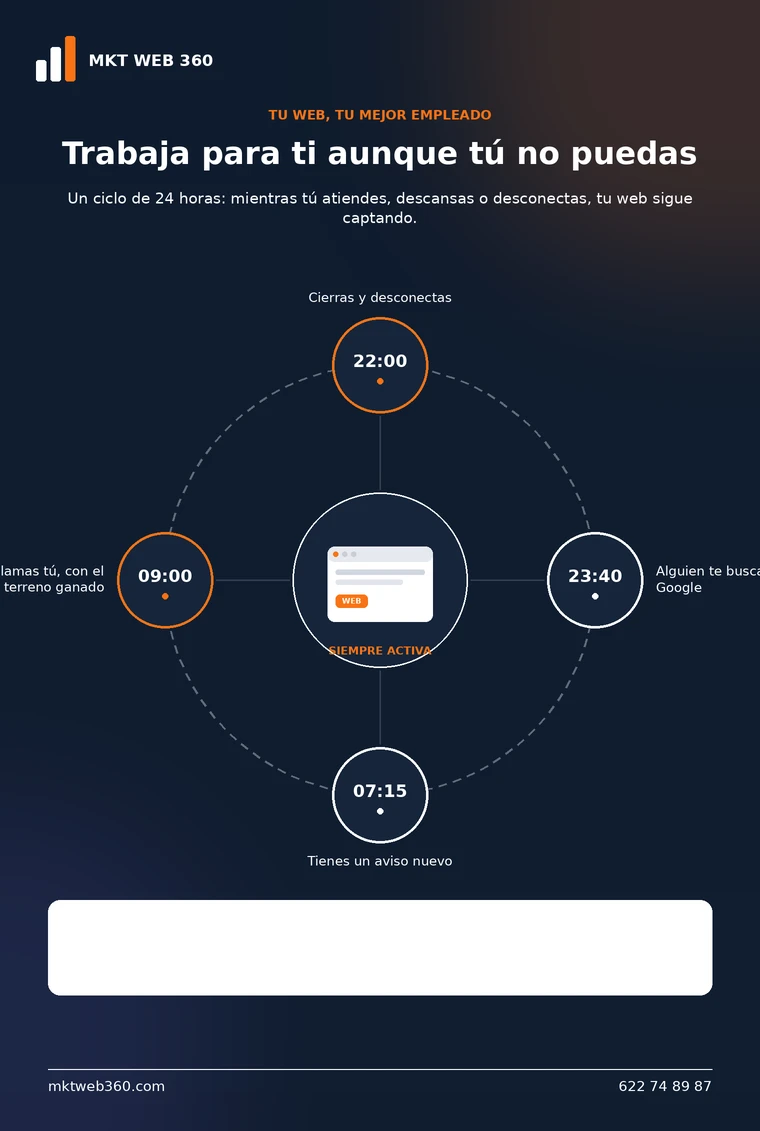
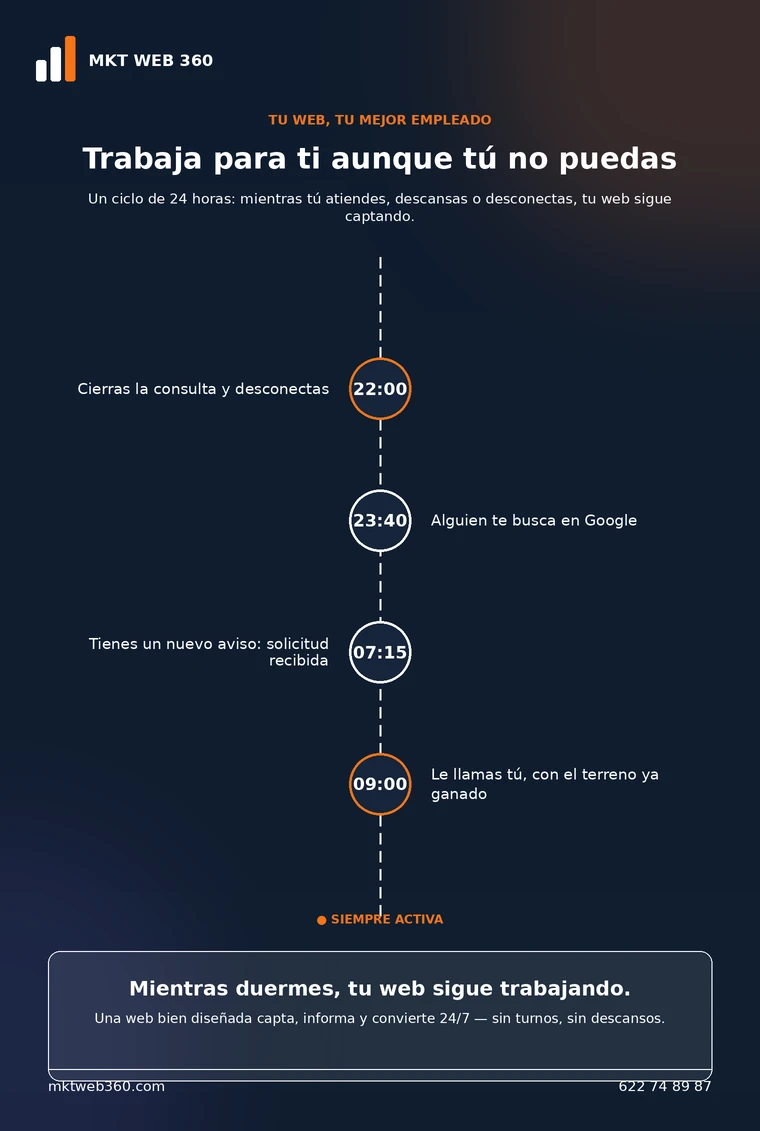
fix: rediseñar imagen 'tu web trabaja' como timeline vertical
- el layout circular anterior desbordaba el canvas portrait (texto cortado en los bordes izq/der)
- la tarjeta inferior con el tagline salía sólida blanca por un bug de blending de PIL (fill translúcido en shapes no se mezcla igual que en texto) — ahora se compone en capa aparte
- nuevo layout: timeline vertical de 4 hitos (22:00/23:40/07:15/09:00), ajustado a los márgenes seguros del canvas 760x1131

diff --git a/scripts/gen_imagen_web_trabaja_autonomo.py b/scripts/gen_imagen_web_trabaja_autonomo.py
@@ -1,4 +1,3 @@
-import math
 from PIL import Image, ImageDraw, ImageFont, ImageFilter
 
 W, H = 1520, 2262  # 2x supersample of 760x1131
@@ -6,17 +5,17 @@ NAVY = (15, 28, 46, 255)
 NAVY2 = (24, 42, 68, 255)
 NAVY_CARD = (22, 37, 58, 255)
 ORANGE = (249, 115, 22, 255)
-ORANGE_SOFT = (249, 115, 22, 60)
-PURPLE1 = (45, 30, 120, 255)
-PURPLE2 = (100, 85, 185, 255)
 WHITE = (255, 255, 255, 255)
 WHITE_85 = (255, 255, 255, 217)
 WHITE_60 = (255, 255, 255, 153)
-WHITE_35 = (255, 255, 255, 89)
 WHITE_15 = (255, 255, 255, 38)
 
 BOLD = "/usr/share/fonts/truetype/dejavu/DejaVuSans-Bold.ttf"
 REG = "/usr/share/fonts/truetype/dejavu/DejaVuSans.ttf"
+
+MARGIN = 100
+SAFE_W = W - 2 * MARGIN
+
 
 def wrap_text(draw, text, font, max_width):
     words = text.split()
@@ -33,8 +32,19 @@ def wrap_text(draw, text, font, max_width):
         lines.append(cur)
     return lines
 
+
 def centered_text(draw, cx, y, text, font, fill, anchor="mm"):
     draw.text((cx, y), text, font=font, fill=fill, anchor=anchor)
+
+
+def alpha_fill_rect(base_img, box, radius, rgba):
+    """Draw a translucent rounded rect correctly by compositing on its own layer
+    (PIL's ImageDraw does not alpha-blend plain shape fills)."""
+    layer = Image.new("RGBA", base_img.size, (0, 0, 0, 0))
+    d = ImageDraw.Draw(layer, "RGBA")
+    d.rounded_rectangle(box, radius=radius, fill=rgba)
+    return Image.alpha_composite(base_img, layer)
+
 
 img = Image.new("RGBA", (W, H), NAVY)
 draw = ImageDraw.Draw(img, "RGBA")
@@ -48,14 +58,13 @@ for y in range(0, H, 4):
 grad = grad.filter(ImageFilter.GaussianBlur(90))
 navy2_layer = Image.new("RGBA", (W, H), NAVY2)
 img = Image.composite(navy2_layer, img, grad)
-draw = ImageDraw.Draw(img, "RGBA")
 
-# soft orange glow upper right, purple glow lower left
+# soft glows
 glow = Image.new("RGBA", (W, H), (0, 0, 0, 0))
 gdraw = ImageDraw.Draw(glow, "RGBA")
-gdraw.ellipse([W - 700, -350, W + 400, 650], fill=(249, 115, 22, 45))
-gdraw.ellipse([-500, H - 750, 550, H + 250], fill=(100, 85, 185, 40))
-glow = glow.filter(ImageFilter.GaussianBlur(160))
+gdraw.ellipse([W - 650, -300, W + 350, 600], fill=(249, 115, 22, 45))
+gdraw.ellipse([-450, H - 700, 500, H + 200], fill=(100, 85, 185, 40))
+glow = glow.filter(ImageFilter.GaussianBlur(150))
 img = Image.alpha_composite(img, glow)
 draw = ImageDraw.Draw(img, "RGBA")
 
@@ -74,136 +83,106 @@ draw.text((lx + 3 * (bar_w + gap) + 18, base_y - 90 + 30), "MKT WEB 360", font=w
 
 # ---- Eyebrow + headline ----
 eyebrow_font = ImageFont.truetype(BOLD, 26)
-centered_text(draw, W / 2, 230, "TU WEB, TU MEJOR EMPLEADO", eyebrow_font, ORANGE, anchor="mm")
+centered_text(draw, W / 2, 240, "TU WEB, TU MEJOR EMPLEADO", eyebrow_font, ORANGE, anchor="mm")
 
-headline_font = ImageFont.truetype(BOLD, 62)
-lines = wrap_text(draw, "Trabaja para ti aunque tú no puedas", headline_font, W - 160)
-hy = 275
+headline_font = ImageFont.truetype(BOLD, 58)
+lines = wrap_text(draw, "Trabaja para ti aunque tú no puedas", headline_font, SAFE_W)
+hy = 288
 for line in lines:
     bbox = draw.textbbox((0, 0), line, font=headline_font)
     lh = bbox[3] - bbox[1]
     centered_text(draw, W / 2, hy + lh / 2, line, headline_font, WHITE, anchor="mm")
-    hy += lh + 16
+    hy += lh + 14
 
-sub_font = ImageFont.truetype(REG, 30)
-sub_lines = wrap_text(draw, "Un ciclo de 24 horas: mientras tú atiendes, descansas o desconectas, tu web sigue captando.", sub_font, W - 260)
-sy = hy + 28
+sub_font = ImageFont.truetype(REG, 28)
+sub_lines = wrap_text(draw, "Un ciclo de 24 horas: mientras tú atiendes, descansas o desconectas, tu web sigue captando.", sub_font, SAFE_W - 60)
+sy = hy + 22
 for line in sub_lines:
     bbox = draw.textbbox((0, 0), line, font=sub_font)
     lh = bbox[3] - bbox[1]
     centered_text(draw, W / 2, sy + lh / 2, line, sub_font, WHITE_60, anchor="mm")
-    sy += lh + 10
+    sy += lh + 8
 
-# ---- Central 24h clock diagram ----
-cx, cy = W / 2, 1160
-R = 430
+# ---- Vertical timeline ----
+timeline_top = sy + 60
+timeline_bottom = H - 430
+line_x = W / 2
 
-# orbit ring (dashed)
-ring_layer = Image.new("RGBA", (W, H), (0, 0, 0, 0))
-ring_draw = ImageDraw.Draw(ring_layer, "RGBA")
-n_dashes = 90
-for i in range(n_dashes):
-    a0 = (i / n_dashes) * 2 * math.pi
-    a1 = a0 + (2 * math.pi / n_dashes) * 0.55
-    x0, y0 = cx + R * math.cos(a0), cy + R * math.sin(a0)
-    x1, y1 = cx + R * math.cos(a1), cy + R * math.sin(a1)
-    ring_draw.line([(x0, y0), (x1, y1)], fill=WHITE_35, width=4)
-img = Image.alpha_composite(img, ring_layer)
-draw = ImageDraw.Draw(img, "RGBA")
+# vertical dashed line
+seg_h = 22
+gap_h = 14
+y = timeline_top
+while y < timeline_bottom:
+    y2 = min(y + seg_h, timeline_bottom)
+    draw.line([(line_x, y), (line_x, y2)], fill=WHITE_15, width=4)
+    y += seg_h + gap_h
 
-# center hub: browser/website icon card
-hub_r = 175
-draw.ellipse([cx - hub_r, cy - hub_r, cx + hub_r, cy + hub_r], fill=NAVY_CARD, outline=WHITE_15, width=3)
-# little browser mockup inside hub
-bw, bh = 210, 150
-bx0, by0 = cx - bw / 2, cy - bh / 2 + 8
-draw.rounded_rectangle([bx0, by0, bx0 + bw, by0 + bh], radius=14, fill=WHITE, outline=None)
-draw.rounded_rectangle([bx0, by0, bx0 + bw, by0 + 30], radius=14, fill=(230, 233, 240, 255))
-for i, dx in enumerate([16, 34, 52]):
-    dot_c = ORANGE if i == 0 else (200, 205, 215, 255)
-    draw.ellipse([bx0 + dx - 5, by0 + 15 - 5, bx0 + dx + 5, by0 + 15 + 5], fill=dot_c)
-draw.rounded_rectangle([bx0 + 16, by0 + 46, bx0 + bw - 16, by0 + 56], radius=4, fill=(210, 214, 224, 255))
-draw.rounded_rectangle([bx0 + 16, by0 + 66, bx0 + bw - 60, by0 + 76], radius=4, fill=(225, 228, 236, 255))
-draw.rounded_rectangle([bx0 + 16, by0 + 96, bx0 + 80, by0 + 122], radius=8, fill=ORANGE)
-cta_font = ImageFont.truetype(BOLD, 15)
-centered_text(draw, bx0 + 48, by0 + 109, "WEB", cta_font, WHITE, anchor="mm")
-hub_label_font = ImageFont.truetype(BOLD, 22)
-centered_text(draw, cx, cy + hub_r - 34, "SIEMPRE ACTIVA", hub_label_font, ORANGE, anchor="mm")
-
-# 4 moment nodes around the ring, at N, E, S, W
 moments = [
-    (-math.pi / 2, "22:00", "Cierras y desconectas", ORANGE),
-    (0, "23:40", "Alguien te busca en Google", (255, 255, 255, 255)),
-    (math.pi / 2, "07:15", "Tienes un aviso nuevo", (255, 255, 255, 255)),
-    (math.pi, "09:00", "Le llamas tú, con el terreno ganado", ORANGE),
+    ("22:00", "Cierras la consulta y desconectas", ORANGE, "left"),
+    ("23:40", "Alguien te busca en Google", WHITE, "right"),
+    ("07:15", "Tienes un nuevo aviso: solicitud recibida", WHITE, "left"),
+    ("09:00", "Le llamas tú, con el terreno ya ganado", ORANGE, "right"),
 ]
 
-node_r = 96
+node_r = 62
 time_font = ImageFont.truetype(BOLD, 34)
-label_font = ImageFont.truetype(REG, 26)
+label_font = ImageFont.truetype(REG, 30)
+text_col_w = (SAFE_W - 2 * (node_r + 40)) / 2 - 20
 
-for angle, time_label, desc, accent in moments:
-    nx, ny = cx + R * math.cos(angle), cy + R * math.sin(angle)
-    draw.ellipse([nx - node_r, ny - node_r, nx + node_r, ny + node_r], fill=NAVY_CARD, outline=accent, width=5)
-    centered_text(draw, nx, ny - 8, time_label, time_font, WHITE, anchor="mm")
-    small_dot = accent
-    draw.ellipse([nx - 6, ny + 26, nx + 6, ny + 38], fill=small_dot)
+step = (timeline_bottom - timeline_top) / (len(moments) + 1)
+for i, (time_label, desc, accent, side) in enumerate(moments):
+    ny = timeline_top + step * (i + 1)
+    # node circle on the center line
+    draw.ellipse([line_x - node_r, ny - node_r, line_x + node_r, ny + node_r], fill=NAVY_CARD, outline=accent, width=5)
+    centered_text(draw, line_x, ny, time_label, time_font, WHITE, anchor="mm")
 
-    # description text placed outside the node, oriented by position
-    desc_lines = wrap_text(draw, desc, label_font, 300)
-    if angle == -math.pi / 2:  # top
-        ty = ny - node_r - 26
-        for line in reversed(desc_lines):
-            bbox = draw.textbbox((0, 0), line, font=label_font)
+    desc_lines = wrap_text(draw, desc, label_font, text_col_w)
+    total_h = sum((draw.textbbox((0, 0), l, font=label_font)[3] - draw.textbbox((0, 0), l, font=label_font)[1]) + 10 for l in desc_lines) - 10
+    ty = ny - total_h / 2
+    if side == "left":
+        tx = line_x - node_r - 40
+        for l in desc_lines:
+            bbox = draw.textbbox((0, 0), l, font=label_font)
             lh = bbox[3] - bbox[1]
-            centered_text(draw, nx, ty - lh / 2, line, label_font, WHITE_85, anchor="mm")
-            ty -= lh + 8
-    elif angle == math.pi / 2:  # bottom
-        ty = ny + node_r + 26
-        for line in desc_lines:
-            bbox = draw.textbbox((0, 0), line, font=label_font)
+            draw.text((tx, ty + lh / 2), l, font=label_font, fill=WHITE_85, anchor="rm")
+            ty += lh + 10
+    else:
+        tx = line_x + node_r + 40
+        for l in desc_lines:
+            bbox = draw.textbbox((0, 0), l, font=label_font)
             lh = bbox[3] - bbox[1]
-            centered_text(draw, nx, ty + lh / 2, line, label_font, WHITE_85, anchor="mm")
-            ty += lh + 8
-    elif angle == 0:  # right
-        tx = nx + node_r + 26
-        ty = ny - (len(desc_lines) - 1) * 18
-        for line in desc_lines:
-            bbox = draw.textbbox((0, 0), line, font=label_font)
-            lh = bbox[3] - bbox[1]
-            draw.text((tx, ty), line, font=label_font, fill=WHITE_85, anchor="lm")
-            ty += lh + 8
-    else:  # left
-        tx = nx - node_r - 26
-        ty = ny - (len(desc_lines) - 1) * 18
-        for line in desc_lines:
-            bbox = draw.textbbox((0, 0), line, font=label_font)
-            lh = bbox[3] - bbox[1]
-            draw.text((tx, ty), line, font=label_font, fill=WHITE_85, anchor="rm")
-            ty += lh + 8
+            draw.text((tx, ty + lh / 2), l, font=label_font, fill=WHITE_85, anchor="lm")
+            ty += lh + 10
 
-# connecting spokes (thin) from hub to each node
-spoke_layer = Image.new("RGBA", (W, H), (0, 0, 0, 0))
-spoke_draw = ImageDraw.Draw(spoke_layer, "RGBA")
-for angle, *_ in moments:
-    nx, ny = cx + R * math.cos(angle), cy + R * math.sin(angle)
-    ux, uy = math.cos(angle), math.sin(angle)
-    sx0, sy0 = cx + (hub_r + 6) * ux, cy + (hub_r + 6) * uy
-    sx1, sy1 = nx - (node_r + 6) * ux, ny - (node_r + 6) * uy
-    spoke_draw.line([(sx0, sy0), (sx1, sy1)], fill=WHITE_15, width=3)
-img = Image.alpha_composite(img, spoke_layer)
-draw = ImageDraw.Draw(img, "RGBA")
+# small "SIEMPRE ACTIVA" badge just under the last node
+badge_font = ImageFont.truetype(BOLD, 24)
+centered_text(draw, line_x, timeline_bottom + 6, "● SIEMPRE ACTIVA", badge_font, ORANGE, anchor="mm")
 
-# ---- Bottom tagline card ----
-card_y0 = cy + R + 210
-card_h = 190
+# ---- Bottom tagline card (properly alpha-blended) ----
+card_y0 = timeline_bottom + 70
+card_h = 260
 card_margin = 96
-draw.rounded_rectangle([card_margin, card_y0, W - card_margin, card_y0 + card_h], radius=24, fill=(255, 255, 255, 14), outline=WHITE_15, width=2)
+img = alpha_fill_rect(img, [card_margin, card_y0, W - card_margin, card_y0 + card_h], 24, (255, 255, 255, 20))
+draw = ImageDraw.Draw(img, "RGBA")
+draw.rounded_rectangle([card_margin, card_y0, W - card_margin, card_y0 + card_h], radius=24, outline=WHITE_15, width=2)
 
 tag_font = ImageFont.truetype(BOLD, 40)
-centered_text(draw, W / 2, card_y0 + 60, "Mientras duermes, tu web sigue trabajando.", tag_font, WHITE, anchor="mm")
+tag_lines = wrap_text(draw, "Mientras duermes, tu web sigue trabajando.", tag_font, SAFE_W - 100)
+ty = card_y0 + 56
+for line in tag_lines:
+    bbox = draw.textbbox((0, 0), line, font=tag_font)
+    lh = bbox[3] - bbox[1]
+    centered_text(draw, W / 2, ty + lh / 2, line, tag_font, WHITE, anchor="mm")
+    ty += lh + 14
+
 tag2_font = ImageFont.truetype(REG, 27)
-centered_text(draw, W / 2, card_y0 + 118, "Una web bien diseñada capta, informa y convierte 24/7 — sin turnos, sin descansos.", tag2_font, WHITE_60, anchor="mm")
+tag2_lines = wrap_text(draw, "Una web bien diseñada capta, informa y convierte 24/7 — sin turnos, sin descansos.", tag2_font, SAFE_W - 140)
+ty += 12
+for line in tag2_lines:
+    bbox = draw.textbbox((0, 0), line, font=tag2_font)
+    lh = bbox[3] - bbox[1]
+    centered_text(draw, W / 2, ty + lh / 2, line, tag2_font, WHITE_60, anchor="mm")
+    ty += lh + 8
 
 # ---- Footer ----
 fy = H - 90
@@ -211,7 +190,6 @@ draw.line([(96, fy - 34), (W - 96, fy - 34)], fill=WHITE_15, width=2)
 footer_font = ImageFont.truetype(REG, 28)
 draw.text((96, fy), "mktweb360.com", font=footer_font, fill=WHITE_60, anchor="lm")
 tel = "622 74 89 87"
-bbox = draw.textbbox((0, 0), tel, font=footer_font)
 draw.text((W - 96, fy), tel, font=footer_font, fill=WHITE_60, anchor="rm")
 
 img = img.convert("RGB")
